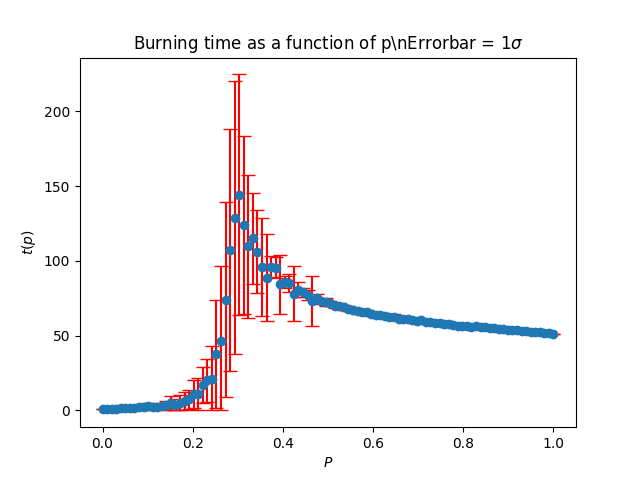
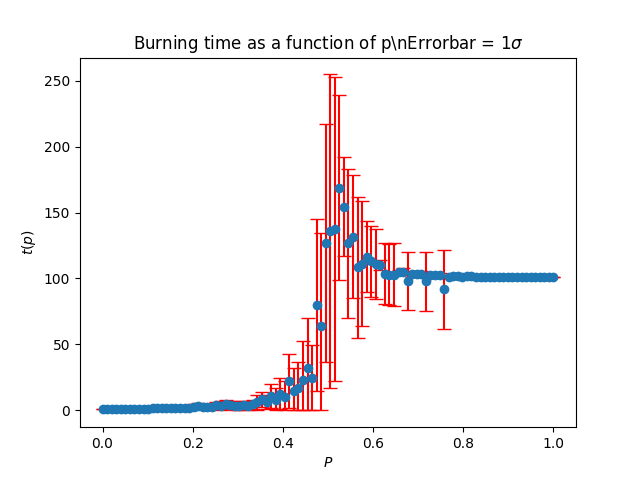
Finished: C++ module for hard procedures      Next: Critical exponents

diff --git a/main.py b/main.py
@@ -9,15 +9,15 @@ from scipy.spatial import Voronoi
 
 from scripts.routes import routes_dict, data_route
 import matplotlib.pyplot as plt
-
+import os
 
 import time
 
 if __name__ == '__main__':
     usrChoice = menu()
-    matrix = np.ones((10,10))
-    matrix[5,5] = 2
-  
+    matrix = np.ones((100,100))
+    matrix[50,50] = 2
+    os.environ["QT_QPA_PLATFORM"] = "xcb"
   
 #++++++++++++++++++++++++++++++++++++++++++++++++++++++++++++++++++++++++++++++++++++++++++++++++++++++++++++++++++++++  
     if usrChoice == 1:
@@ -31,18 +31,18 @@ if __name__ == '__main__':
             
             name = 'squaredAnimation_test'
             route = routes_dict['squared'] +  name
-            forest = simulation.squareForest(burningThreshold=0.95,occuProba=0.95 ,initialForest=matrix, saveHistoricalPropagation=True)
-            #forest.animate(route)    
-            start = time.time()
-            history, steps = forest.propagateFire(ps=1,pb=1)
-            print("Execution time:", time.time() - start)
-            print(steps)
+            forest = simulation.squareForest(burningThreshold=0.55,occuProba=0.95 ,initialForest=matrix, saveHistoricalPropagation=True)
+            forest.animate(route)    
+            #start = time.time()
+            #steps = forest.propagateFire(ps=1,pb=0.55)
+            #print("Execution time:", time.time() - start)
+            #print(steps)
             
         elif tessellation == 2:
             
             name = 'triangularAnimation'
             route = routes_dict['triangular'] + name
-            forest = simulation.triangularForest(burningThreshold=0.95,occuProba=0.95 ,initialForest=matrix, saveHistoricalPropagation=True)
+            forest = simulation.triangularForest(burningThreshold=0.7,occuProba=0.95 ,initialForest=matrix, saveHistoricalPropagation=True)
             forest.animate(route)
         
         

diff --git a/classes/regular/simulation.py b/classes/regular/simulation.py
@@ -39,7 +39,7 @@ class forestFire():
         self.topography = topography
 
         self.forestSize = initialForest.shape
-        self.historicalFirePropagation = [np.copy(initialForest)]
+        self.historicalFirePropagation = []
         self.saveHistoricalPropagation = saveHistoricalPropagation
         
     
@@ -50,8 +50,7 @@ class forestFire():
         if np.sum(self.forest == 2) == 0:
             print('The forest does not have burning trees')
         else:
-            final_forest, steps = fire.propagate_fire_cpp(self.forest.astype(np.int32), pb, self.neighbours, self.neighboursBoolTensor.astype(np.int32), True)
-            self.forest = final_forest
+            self.historicalFirePropagation, steps = fire.propagate_fire_cpp(self.forest.astype(np.int32), pb, self.neighbours, self.neighboursBoolTensor.astype(np.int32), True)
             return steps
         
 

diff --git a/classes/regular/setup.py b/classes/regular/setup.py
@@ -1,0 +1,27 @@
+from pybind11.setup_helpers import Pybind11Extension, build_ext
+from setuptools import setup
+import numpy
+
+ext_modules = [
+    Pybind11Extension(
+        "fire_plus",                # nombre del módulo
+        ["fire_plus.cpp"],          # archivos fuente
+        include_dirs=[
+            numpy.get_include()
+            # pybind11 y xtensor-python ya vienen incluidos en conda
+        ],
+        #language="c++",
+        define_macros=[("VERSION_INFO", "0.0.1")],
+        cxx_std=17,
+        #extra_compile_args=["-std=c++17"]
+    ),
+]
+
+setup(
+    name="fire_plus",
+    version="0.0.1",
+    author="Sebastian",
+    ext_modules=ext_modules,
+    cmdclass={"build_ext": build_ext},
+    zip_safe=False,
+)

diff --git a/classes/regular/fire_plus.cpp b/classes/regular/fire_plus.cpp
@@ -210,8 +210,8 @@ std::tuple<py::list, int> propagate_fire_cpp(py::array_t<int> forest_np,
     
     py::list py_history;
     for (auto& state : history) {
-        std::cout<<state<<std::endl;
-        py_history.append(xt::pyarray<int>(state));
+        //std::cout<<state<<std::endl;
+        py_history.append(py::cast(state));
 
     }
 
